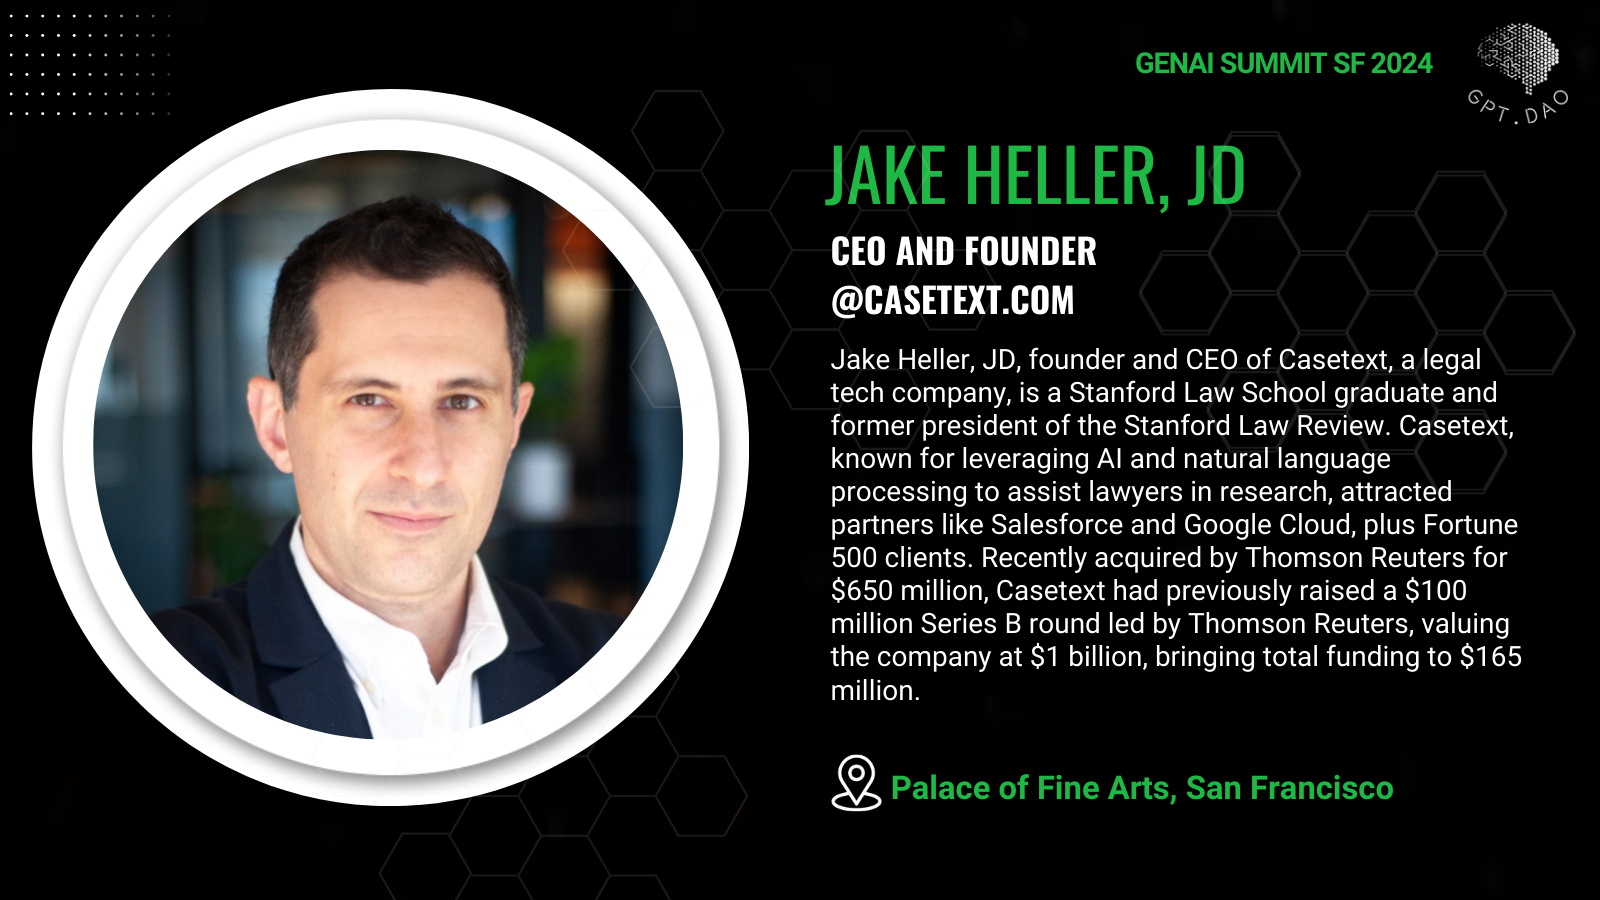
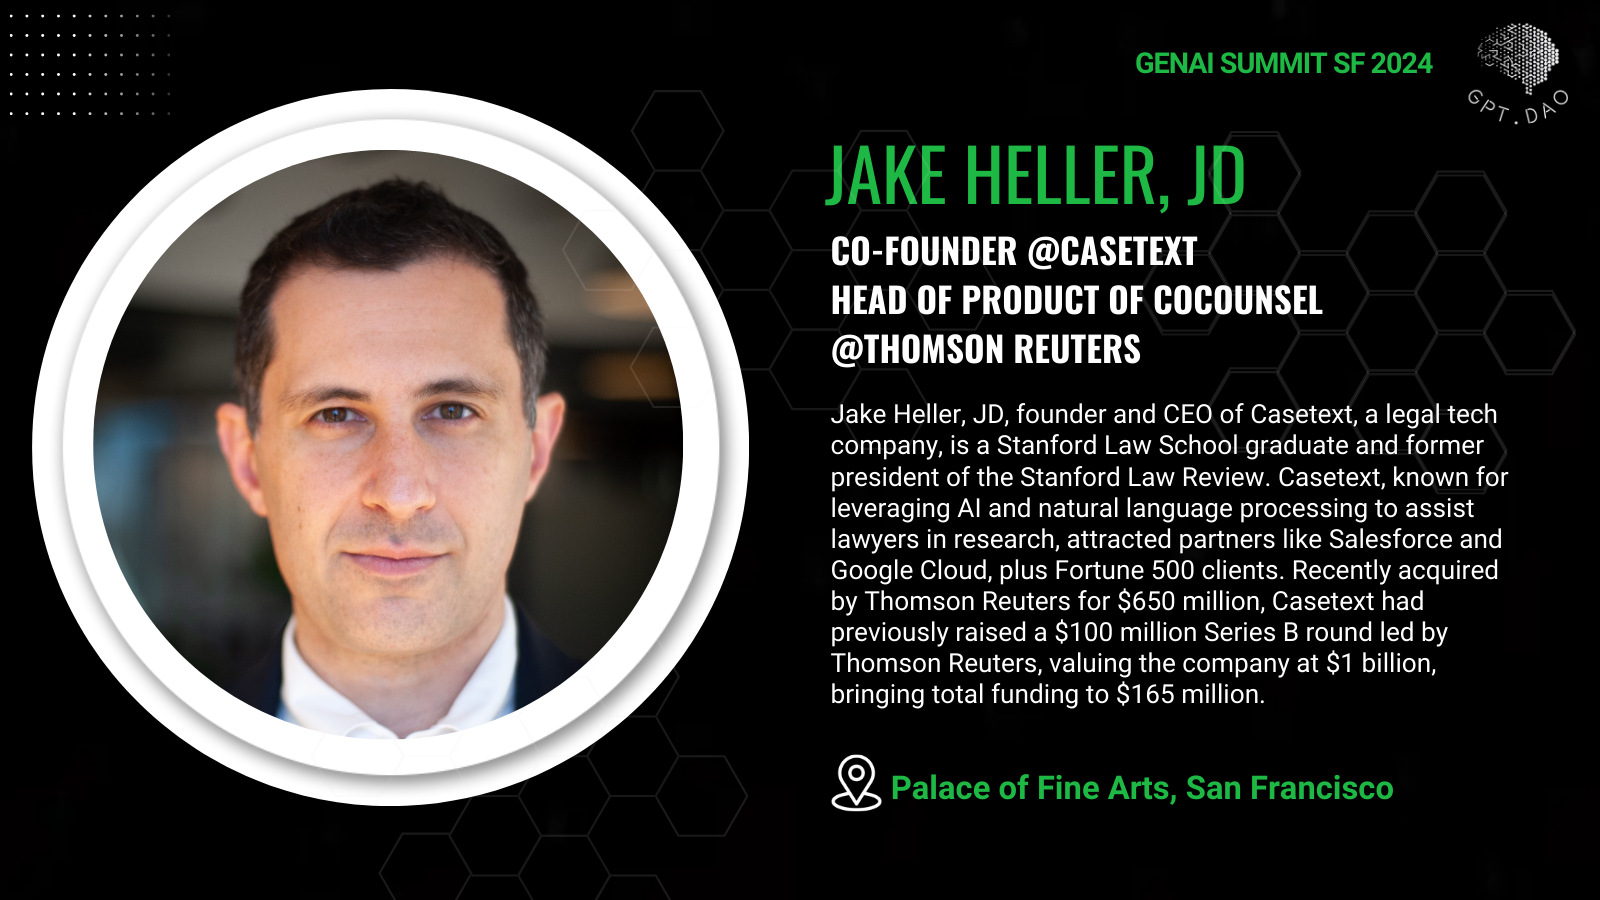
sf52
speaker popup info update

Changed region(s): [[0.5, 0.2489, 0.9688, 0.7778], [0.0312, 0.1556, 0.4375, 0.84]]

diff --git a/summit/src/components/Home/speakersDataNew.js b/summit/src/components/Home/speakersDataNew.js
@@ -68,17 +68,7 @@ export const speakersnew = [
             { href: "https://www.jasonwei.net/", icon: "icofont-web" }
         ]
     },
-    // {
-    //     name: "Worldcoin",
-    //     title: "",
-    //     company: "",
-    //     image: require("../../assets/images/speakers/worldcoin.png"),
-    //     socialLinks: [
-    //         { icon: "icofont-web", href: "https://worldcoin.org/world-id" },
-    //         { icon: "icofont-twitter", href: "https://twitter.com/worldcoin" },
-    //         { icon: "icofont-linkedin", href: "https://www.linkedin.com/company/worldcoinfoundation/" }
-    //     ]
-    // },
+   
     
     // {
     //     name: "Aravind Srinivas",
@@ -217,6 +207,7 @@ export const speakersnew = [
             { icon: "icofont-linkedin", href: "https://www.linkedin.com/in/jerry-liu-64390071/" }
         ]
     },
+    
     {
         image: require("../../assets/images/speakers/jason_l.webp"),
         name: "Jason Lopatecki",
@@ -226,6 +217,30 @@ export const speakersnew = [
         socialLinks: [
             { icon: "icofont-twitter", href: "https://twitter.com/jason_lopatecki" },
             { icon: "icofont-linkedin", href: "https://www.linkedin.com/in/jason-lopatecki-9509941/" }
+        ]
+    },
+    {
+        name: "Worldcoin",
+        title: "",
+        company: "",
+        image: require("../../assets/images/speakers/worldcoin.png"),
+        popup: require("../../assets/images/speakers/popup/worldcoin.png"),
+        socialLinks: [
+            { icon: "icofont-web", href: "https://worldcoin.org/world-id" },
+            { icon: "icofont-twitter", href: "https://twitter.com/worldcoin" },
+            { icon: "icofont-linkedin", href: "https://www.linkedin.com/company/worldcoinfoundation/" }
+        ]
+    },
+    {
+        name: "LangChain",
+        title: "",
+        company: "",
+        image: require("../../assets/images/speakers/langchain.png"),
+        popup: require("../../assets/images/speakers/popup/langchain.png"),
+        socialLinks: [
+            { icon: "icofont-web", href: "https://python.langchain.com/docs/integrations/providers/twitter" },
+            { icon: "icofont-twitter", href: "https://twitter.com/LangChainAI" },
+            { icon: "icofont-linkedin", href: "https://www.linkedin.com/company/langchain/" }
         ]
     },
     {
@@ -251,9 +266,9 @@ export const speakersnew = [
         ]
     },
     {
-        name: "Jake Heller",
-        title: "CEO and Founder",
-        company: "Casetext.com",
+        name: "Jake Heller, JD",
+        title: "Co-Founder @Casetext Head of Product of CoCounsel",
+        company: "@Thomson Reuters",
         image: require("../../assets/images/speakers/jake.jpg"),
         popup: require("../../assets/images/speakers/popup/jake.png"),
         socialLinks: [

diff --git a/summit/src/components/Home/Speakers.jsx b/summit/src/components/Home/Speakers.jsx
@@ -154,7 +154,7 @@ const Speakers = () => {
             <div className='container'>
                 <div className="section-title">
                     <span>Listen to the Event Speakers</span>
-                    <h2>Speakers</h2>  <h5>--- GenAI SF 2024</h5>
+                    <h2>Speakers</h2>  
                     <a href="https://www.gptdao.ai/get-started" target="_blank" rel="noopener noreferrer" className="btn btn-primary">Be our Speaker</a>
                 </div>
                 <div className='row'>

diff --git a/summit/src/components/Home/speakersRecent.js b/summit/src/components/Home/speakersRecent.js
@@ -22,9 +22,9 @@ export const speakersrecent = [
         ]
     },
     {
-        name: "Jake Heller",
-        title: "CEO and Founder",
-        company: "Casetext.com",
+        name: "Jake Heller, JD",
+        title: "Co-Founder @Casetext Head of Product of CoCounsel",
+        company: "@Thomson Reuters",
         image: require("../../assets/images/speakers/jake.jpg"),
         popup: require("../../assets/images/speakers/popup/jake.png"),
         socialLinks: [
